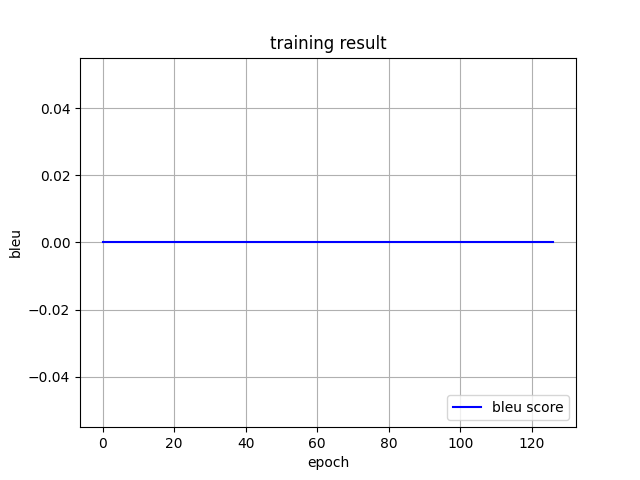
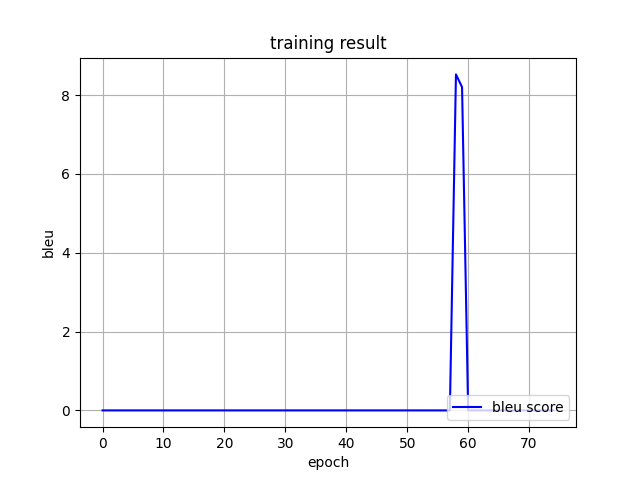
auto_encoder way

diff --git a/models/embedding/transformer_embedding copy.py b/models/embedding/transformer_embedding copy.py
@@ -8,7 +8,7 @@ from torch import nn
 
 from models.embedding.positional_encoding import PostionalEncoding
 from models.embedding.token_embeddings import TokenEmbedding
-from models.embedding.autoencoder import AutoEncoder, LinearLayer
+from models.embedding.autoencoder import AutoEncoder
 
 from conf import device
 
@@ -30,25 +30,21 @@ class SummationEmbedding(nn.Module):
         embedding = torch.cat([self.cat_token_emb, self.cat_positional_emb], 2)
         return embedding
 
-    def linear(self):
-        embedding = torch.cat([self.token_emb, self.positional_emb], 2)
-        batch_size, sentence_size, embedding_size = embedding.shape
-        embedding = embedding.view(batch_size*sentence_size, -1)
-        self.linearlayer = LinearLayer(embedding).to(device)
-        embedding = self.linearlayer(embedding)
-        embedding = embedding.view(batch_size, sentence_size, embedding_size)
-        return embedding
-
     def autoencoder(self):
         embedding = torch.cat([self.token_emb, self.positional_emb], 2)
         batch_size, sentence_size, embedding_size = embedding.shape
         embedding = embedding.view(batch_size*sentence_size, -1)
+        # print(embedding.shape)
+        # print('####before####')
+        # print(embedding)
         self.auto_encoder = AutoEncoder(embedding).to(device)
-        encoded, decoded = self.auto_encoder(embedding)
-        embedding = embedding.view(batch_size, sentence_size, embedding_size)
+        embedding = self.auto_encoder(embedding)
+        # print('####after####')
+        # print(embedding)
 
-        # 텐서를 비교하는 함수
-        # print(torch.eq(a, embedding))
+        # print(embedding.shape)
+        embedding = embedding.view(batch_size, sentence_size, int(embedding_size/2))
+        # print(embedding.shape)
         return embedding
 
 
@@ -57,6 +53,7 @@ class TransformerEmbedding(nn.Module):
     token embedding + positional encoding (sinusoid)
     positional encoding can give positional information to network
     """
+
     def __init__(self, vocab_size, d_model, max_len, drop_prob, device):
         """
         class for word embedding that included positional information
@@ -76,7 +73,7 @@ class TransformerEmbedding(nn.Module):
 
         self.drop_out = nn.Dropout(p=drop_prob)
 
-    def expander(self, x):
+    def expand(self, x):
         # normal
         tok_emb = self.tok_emb(x)
         pos_emb = self.pos_emb(x)
@@ -94,7 +91,16 @@ class TransformerEmbedding(nn.Module):
 
 ##########################auto encoder를 집어넣자##############################
     def forward(self, x):
-        tok_emb, pos_emb, cat_tok_emb, cat_pos_emb = self.expander(x)
+        # print('---------------')
+        # print(x.shape)
+        # print(x)
+
+        tok_emb, pos_emb, cat_tok_emb, cat_pos_emb = self.expand(x)
+        
+        # print('===============')
+        # print(tok_emb.shape)
+        # print(pos_emb.shape)
+        # print((tok_emb + pos_emb).shape)
 
         # tok_emb: 여러 문장에 대한 "토큰 임베딩"
         # torch.Size([128, 34, 512])
@@ -102,10 +108,17 @@ class TransformerEmbedding(nn.Module):
         # torch.Size([34, 512])
         # torch.Size([128, 34, 512])
 
+
         model = SummationEmbedding(tok_emb, pos_emb, cat_tok_emb, cat_pos_emb)
-        final_emb = model.summation()
+        # final_emb = model.summation()
         # final_emb = model.concatenate()
-        # final_emb = model.autoencoder()
+        final_emb = model.autoencoder()
+
+
+        # print('+++++++++++')
+        # print(final_emb.shape)
+        # print(final_emb)
+        # print(d)
 
         # return self.drop_out(tok_emb + pos_emb)
         return self.drop_out(final_emb)

diff --git a/models/embedding/autoencoder.py b/models/embedding/autoencoder.py
@@ -2,54 +2,40 @@ import torch
 from torch import nn
 
 
+class LinearLayer(nn.Module):
+    def __init__(self, embedding, dropout=0.1):
+        super(LinearLayer, self).__init__()
+
+        x_embedding, y_embedding = embedding.shape
+        self.w_1 = nn.Linear(y_embedding, 512)
+        self.w_2 = nn.Linear(512, int(y_embedding/2))
+        self.dropout = nn.Dropout(p=dropout)
+
+    def forward(self, x):
+        x = self.w_1(x)
+        x = self.w_2(x)
+        x = self.dropout(x)
+        return x
+
+# 오토인코더 모듈 정의
 class AutoEncoder(nn.Module):
     def __init__(self, embedding, dropout=0.1):
         super(AutoEncoder, self).__init__()
 
         x_embedding, y_embedding = embedding.shape
-        # print('###################')
-        # print(embedding.shape)
-        self.w_1 = nn.Linear(y_embedding, 64)
-        self.w_2 = nn.Linear(64, int(y_embedding/2))
-        self.dropout = nn.Dropout(p=dropout)
+        #인코더는 간단한 신경망으로 분류모델처럼 생겼습니다.
+        self.encoder = nn.Sequential( # nn.Sequential을 사용해 encoder와 decoder 두 모듈로 묶어줍니다.
+            nn.Linear(y_embedding, 512), #차원을 28*28에서 점차 줄여나갑니다.
+            nn.ReLU(),
+            nn.Linear(512, int(y_embedding/2)),   # 입력의 특징을 3차원으로 압축합니다 (출력값이 바로 잠재변수가 됩니다.)
+        )
+        self.decoder = nn.Sequential(
+            nn.Linear(int(y_embedding/2), 512), #디코더는 차원을 점차 28*28로 복원합니다.
+            nn.ReLU(),
+            nn.Linear(512, y_embedding)
+        )
 
     def forward(self, x):
-        # print('-------')
-        # print(x.shape)
-        x = self.w_1(x)
-        # print(x.shape)
-        x = self.w_2(x)
-        x = self.dropout(x)
-        return x
-
-# # 오토인코더 모듈 정의
-# class Autoencoder(nn.Module):
-#     def __init__(self, embedding, dropout=0.1):
-#         super(Autoencoder, self).__init__()
-
-#         x_embedding, y_embedding = embedding.shape
-#         #인코더는 간단한 신경망으로 분류모델처럼 생겼습니다.
-#         self.encoder = nn.Sequential( # nn.Sequential을 사용해 encoder와 decoder 두 모듈로 묶어줍니다.
-#             nn.Linear(y_embedding, 128), #차원을 28*28에서 점차 줄여나갑니다.
-#             nn.ReLU(),
-#             nn.Linear(128, 64),
-#             nn.ReLU(),
-#             nn.Linear(64, 12),
-#             nn.ReLU(),
-#             nn.Linear(12, int(y_embedding/2)),   # 입력의 특징을 3차원으로 압축합니다 (출력값이 바로 잠재변수가 됩니다.)
-#         )
-#         self.decoder = nn.Sequential(
-#             nn.Linear(int(y_embedding/2), 12), #디코더는 차원을 점차 28*28로 복원합니다.
-#             nn.ReLU(),
-#             nn.Linear(12, 64),
-#             nn.ReLU(),
-#             nn.Linear(64, 128),
-#             nn.ReLU(),
-#             nn.Linear(128, y_embedding),
-#             nn.Sigmoid(),       # 픽셀당 0과 1 사이로 값을 출력하는 sigmoid()함수를 추가합니다.
-#         )
-
-#     def forward(self, x):
-#         encoded = self.encoder(x) # encoder는 encoded라는 잠재변수를 만들고
-#         decoded = self.decoder(encoded) # decoder를 통해 decoded라는 복원이미지를 만듭니다.
-#         return encoded, decoded
+        encoded = self.encoder(x) # encoder는 encoded라는 잠재변수를 만들고
+        decoded = self.decoder(encoded) # decoder를 통해 decoded라는 복원이미지를 만듭니다.
+        return encoded, decoded

diff --git a/toy copy 4.py b/toy copy 4.py
@@ -1,0 +1,59 @@
+import torch
+
+a = torch.randn(3, 4)
+
+a.transpose_(0, 1)
+
+b = torch.randn(4, 3)
+
+# 두 tensor는 모두 (4, 3) shape
+print(a)
+'''
+tensor([[-0.7290,  0.7509,  1.1666],
+        [-0.9321, -0.4360, -0.2715],
+        [ 0.1232, -0.6812, -0.0358],
+        [ 1.1923, -0.8931, -0.1995]])'''
+
+print(b)
+'''
+tensor([[-0.1630,  0.1704,  1.8583],
+        [-0.1231, -1.5241,  0.2243],
+        [-1.3705,  1.2717, -0.6051],
+        [ 0.0412,  1.3312, -1.2066]])'''
+
+# a 텐서 메모리 주소 예시
+for i in range(4):
+    for j in range(3):
+        print(a[i][j].data_ptr())
+print()
+'''
+94418119497152
+94418119497168
+94418119497184
+94418119497156
+94418119497172
+94418119497188
+94418119497160
+94418119497176
+94418119497192
+94418119497164
+94418119497180
+94418119497196'''
+
+# b 텐서 메모리 주소 예시
+for i in range(4):
+    for j in range(3):
+        print(b[i][j].data_ptr())
+'''
+94418119613696
+94418119613700
+94418119613704
+94418119613708
+94418119613712
+94418119613716
+94418119613720
+94418119613724
+94418119613728
+94418119613732
+94418119613736
+94418119613740'''

diff --git a/toy copy 5.py b/toy copy 5.py
@@ -1,0 +1,29 @@
+from torch import nn
+import torch
+
+
+class TokenEmbedding(nn.Embedding):
+    """
+    Token Embedding using torch.nn
+    they will dense representation of word using weighted matrix
+    """
+
+    def __init__(self, vocab_size, d_model):
+        """
+        class for token embedding that included positional information
+
+        :param vocab_size: size of vocabulary
+        :param d_model: dimensions of model
+        """
+        super(TokenEmbedding, self).__init__(vocab_size, d_model, padding_idx=1)
+
+
+model = TokenEmbedding(6, 7)
+print(model)
+
+x = torch.ones(5, 10).int()
+print(x)
+
+x = model(x)
+print(x.shape)
+print(x)

diff --git a/toy copy 2.py b/toy copy 2.py
@@ -9,13 +9,16 @@ print(x)
 # x = x.view(3, -1)
 # print(x.shape)
 # print(x)
-x = x.view(3*2, -1)
-print(x.shape)
-print(x)
+a = x.view(3*2, -1)
+print(a.shape)
+print(a)
 
-x = x.view(3, 2, 5)
-print(x.shape)
-print(x)
+b = a.view(3, 2, 5)
+print(b.shape)
+print(b)
+
+# 텐서를 비교하는 함수
+print(torch.eq(x, b))
 
 # # reshape the tensor into a 2D tensor with shape (batch_size, channels * height * width)
 # x = x.view(32, -1)

diff --git a/train.py b/train.py
@@ -37,8 +37,10 @@ model = Transformer(src_pad_idx=src_pad_idx,
                     n_layers=n_layers,
                     drop_prob=drop_prob,
                     device=device).to(device)
-print('===============')
-print(model)
+
+# print('===============')
+# print(model)
+
 print(f'The model has {count_parameters(model):,} trainable parameters')
 model.apply(initialize_weights)
 optimizer = Adam(params=model.parameters(),

diff --git a/toy copy 3.py b/toy copy 3.py
@@ -1,0 +1,16 @@
+import torch
+import torch.nn as nn
+
+# Create an nn.Linear module
+linear = nn.Linear(10, 5)
+
+# Access the weight and bias attributes
+weight = linear.weight
+bias = linear.bias
+
+# Print the shape of the weight and bias tensors
+print("Weight shape:", weight.shape)
+print("Bias shape:", bias.shape)
+
+print(weight)
+print(bias)
